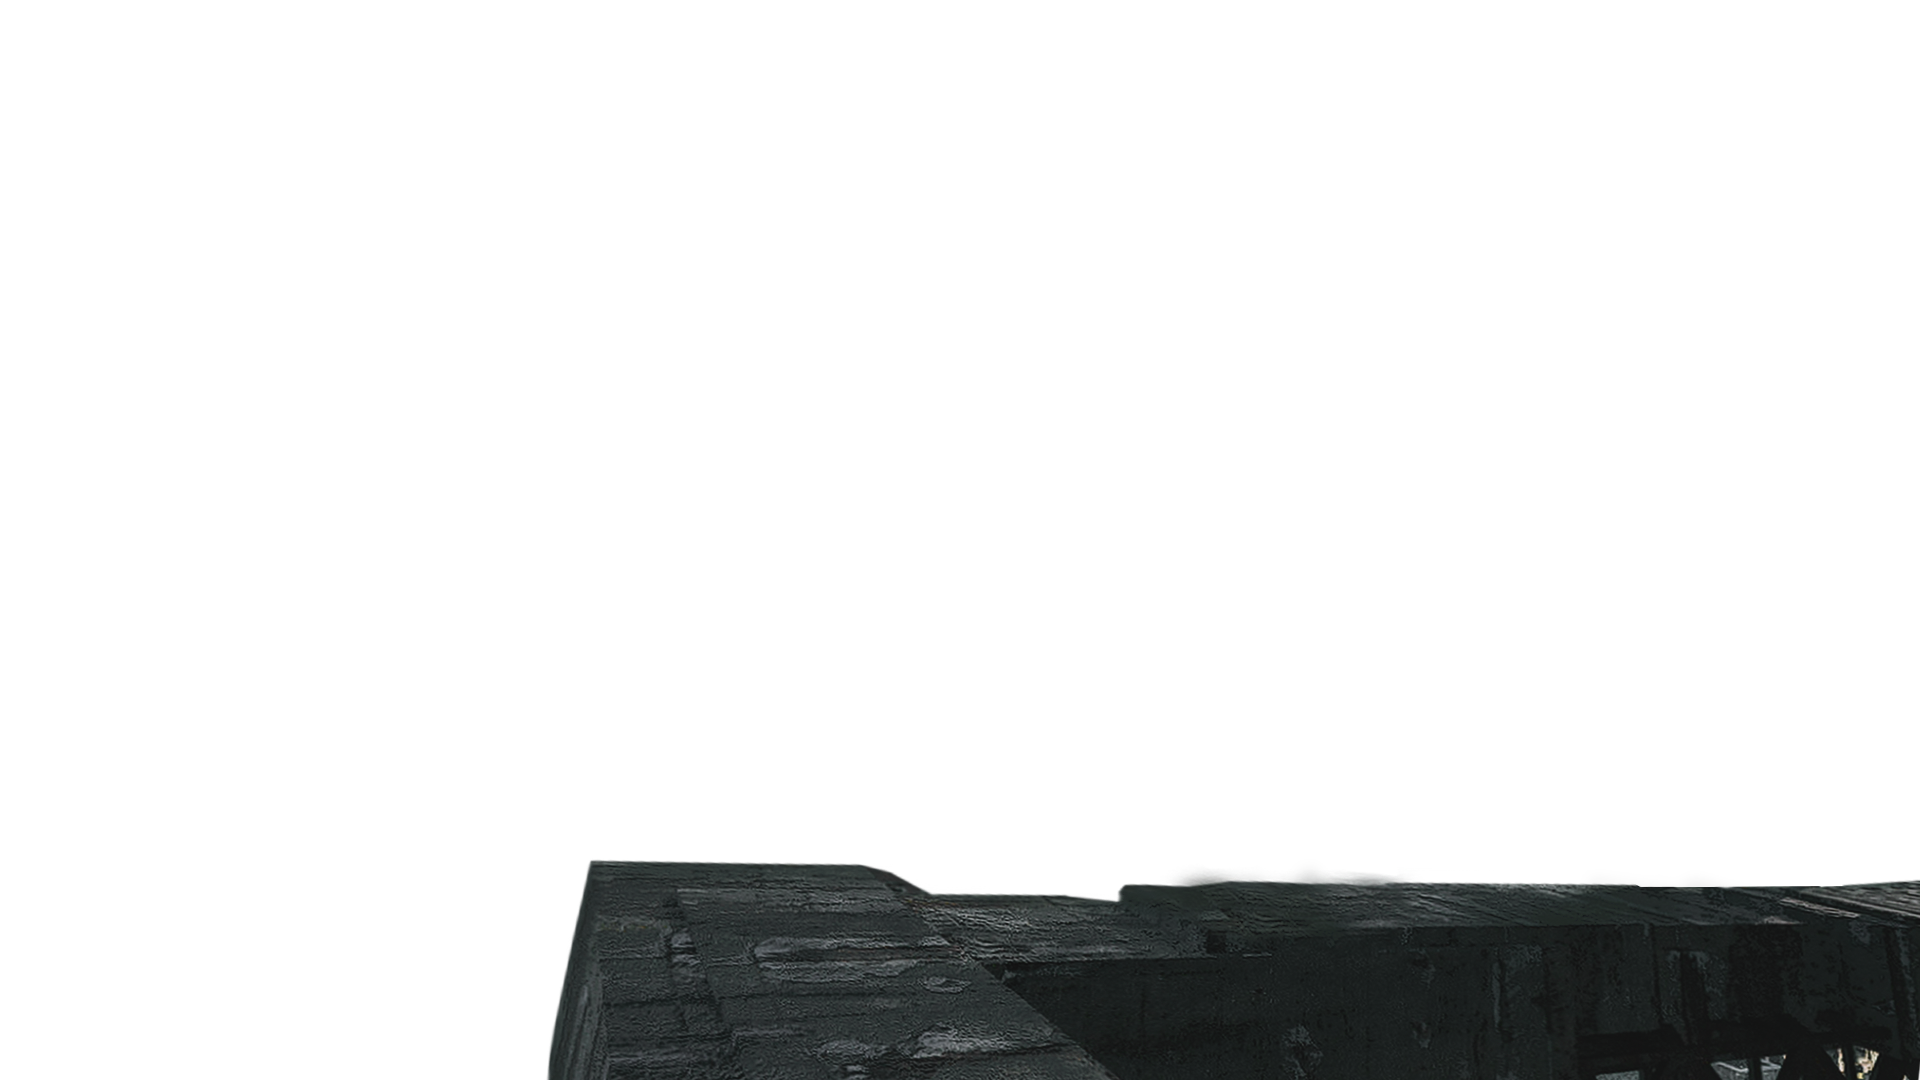
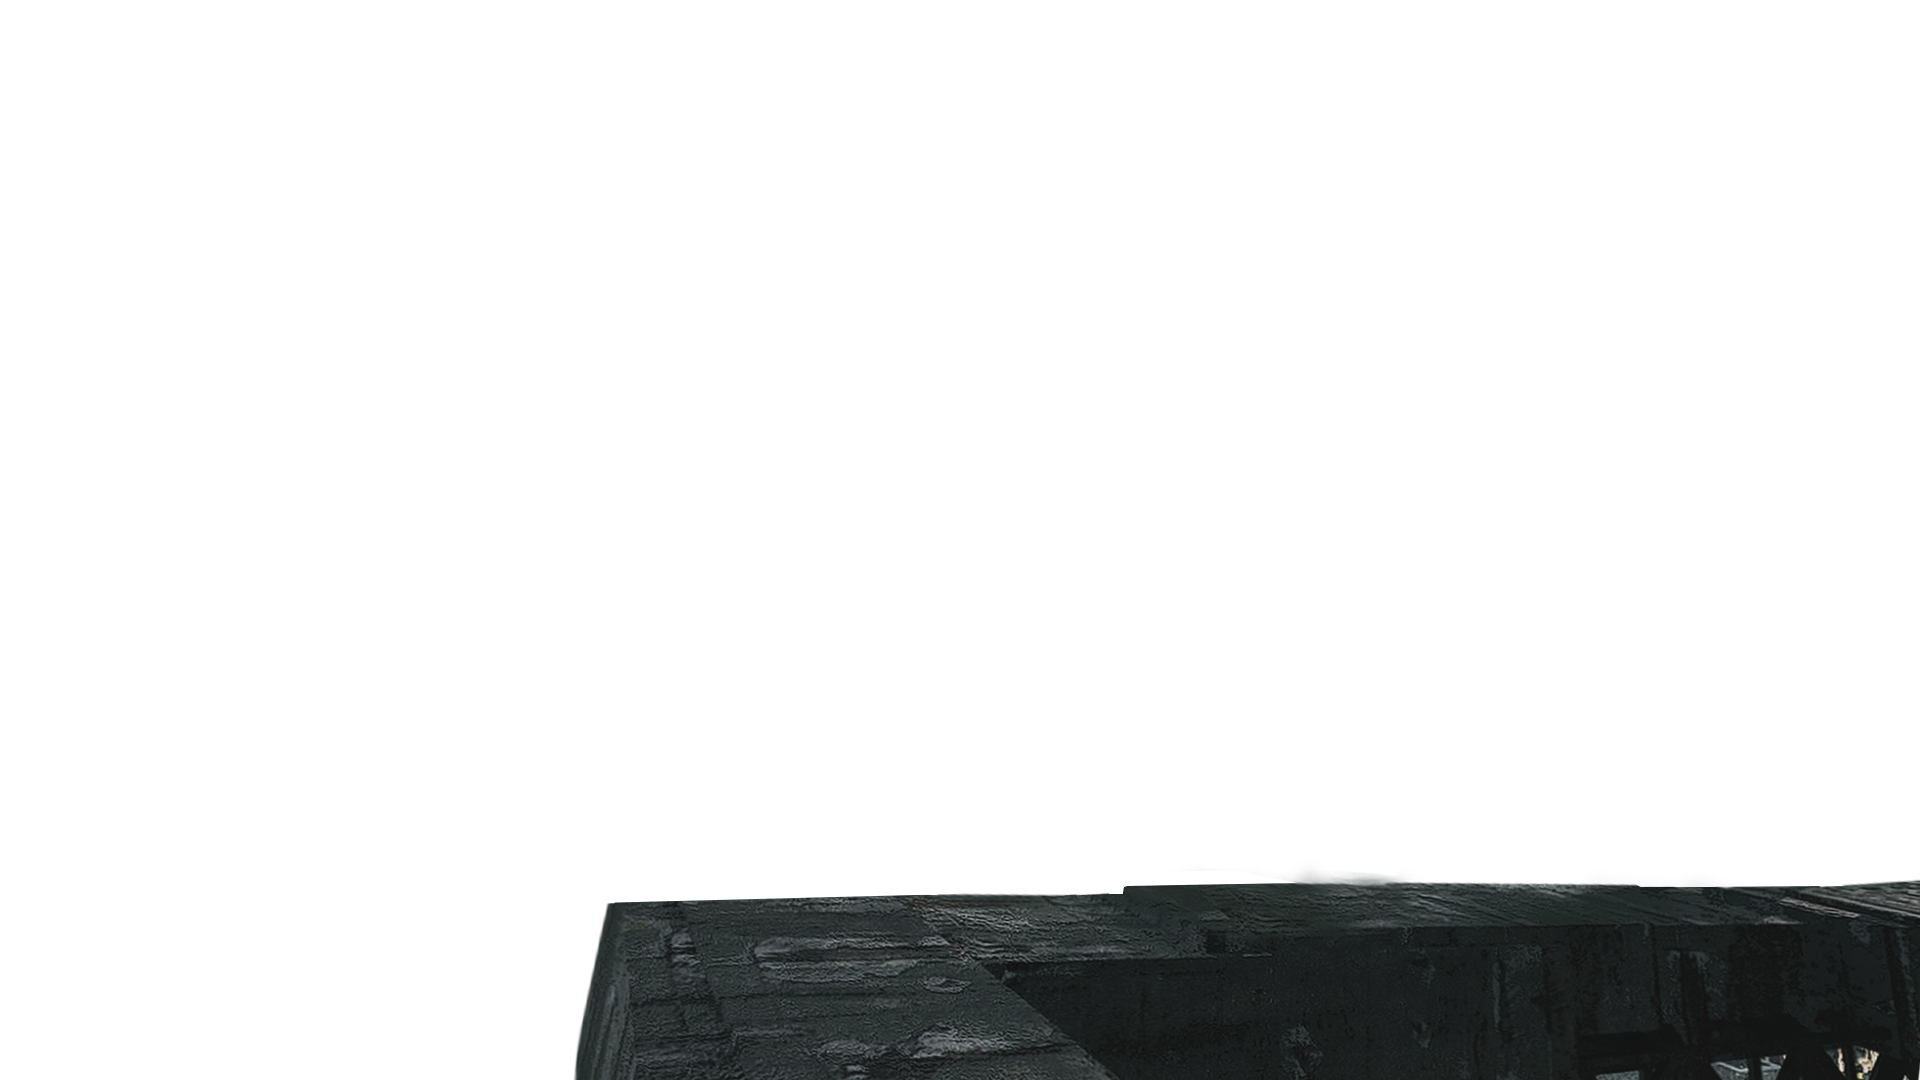
1.4
vertical animation

Changed region(s): [[0.2812, 0.7944, 0.4688, 1.0], [0.5938, 0.7944, 0.6562, 0.825], [0.5625, 0.825, 0.5938, 0.8556]]

diff --git a/index.html b/index.html
@@ -31,18 +31,18 @@
 
     <section class="main" id="main">
         <div class="landing">            
-            <img src="assets/tt.png" data-speedx="0.03" data-speedy="0.25" data-speedz="0" data-rotation="0" class="parallax bg"/>
-            <img src="assets/7.png" data-speedx="0.03" data-speedy="0.18" data-speedz="0.1" data-rotation="0.0" class="parallax g1"/>
-            <img src="assets/10.png" data-speedx="0.01" data-speedy="0.15" data-speedz="0.2" data-rotation="0.08" class="parallax g2"/>
+            <img src="assets/tt.png" data-speedx="0.05" data-speedy="0.25" data-speedz="0" data-rotation="0" class="parallax bg"/>
+            <img src="assets/7.png" data-speedx="0.07" data-speedy="0.18" data-speedz="0.1" data-rotation="0.0" class="parallax g1"/>
+            <img src="assets/10.png" data-speedx="0.05" data-speedy="0.15" data-speedz="0.2" data-rotation="0.08" class="parallax g2"/>
                 <h1 class="parallax judul1" data-speedx="0.06" data-speedy="0.006" data-speedz="0" data-rotation="0">old</h1>
                 <h1 class="parallax judul2" data-speedx="0.06" data-speedy="0.006" data-speedz="0" data-rotation="0">metropolis</h1>
 
-            <img src="assets/5.png" data-speedx="0.03" data-speedy="0.15" data-speedz="0.2" data-rotation="0.03" class="parallax g3"/>
-            <img src="assets/8.png" data-speedx="0.03" data-speedy="0.21" data-speedz="0.2" data-rotation="0.05"  class="parallax g4"/>
-            <img src="assets/3.png" data-speedx="0.025" data-speedy="0.17" data-speedz="0.3" data-rotation="0.08" class="parallax g5"/>
-            <img src="assets/2.png" data-speedx="0.04" data-speedy="0.04" data-speedz="0.2" data-rotation="0.14" class="parallax g7"/>
-            <img src="assets/1.png" data-speedx="0.065" data-speedy="0.1" data-speedz="0.3" data-rotation="0.15" class="parallax g8"/>
-            <img src="assets/girl.png" data-speedx="0.09" data-speedy="0.11" data-speedz="0.3" data-rotation="0.3" class="parallax girl"/>
+            <img src="assets/5.png" data-speedx="0.06" data-speedy="0.15" data-speedz="0.2" data-rotation="0.03" class="parallax g3"/>
+            <img src="assets/8.png" data-speedx="0.06" data-speedy="0.21" data-speedz="0.2" data-rotation="0.05"  class="parallax g4"/>
+            <img src="assets/3.png" data-speedx="0.07" data-speedy="0.17" data-speedz="0.3" data-rotation="0.08" class="parallax g5"/>
+            <img src="assets/2.png" data-speedx="0.06" data-speedy="0.05" data-speedz="0.2" data-rotation="0.14" class="parallax g7"/>
+            <img src="assets/1.png" data-speedx="0.065" data-speedy="0.11" data-speedz="0.3" data-rotation="0.15" class="parallax g8"/>
+            <img src="assets/girl.png" data-speedx="0.12" data-speedy="0.12" data-speedz="0.3" data-rotation="0.3" class="parallax girl"/>
             <img src="assets/border.png" class="border"/>
         </div>
     </section>

diff --git a/script.js b/script.js
@@ -36,7 +36,3 @@ window.addEventListener("mousemove", (e) => {
     updateParallax();
 });
 
-// Scroll event for parallax effect
-window.addEventListener('scroll', () => {
-    updateParallax();
-});
